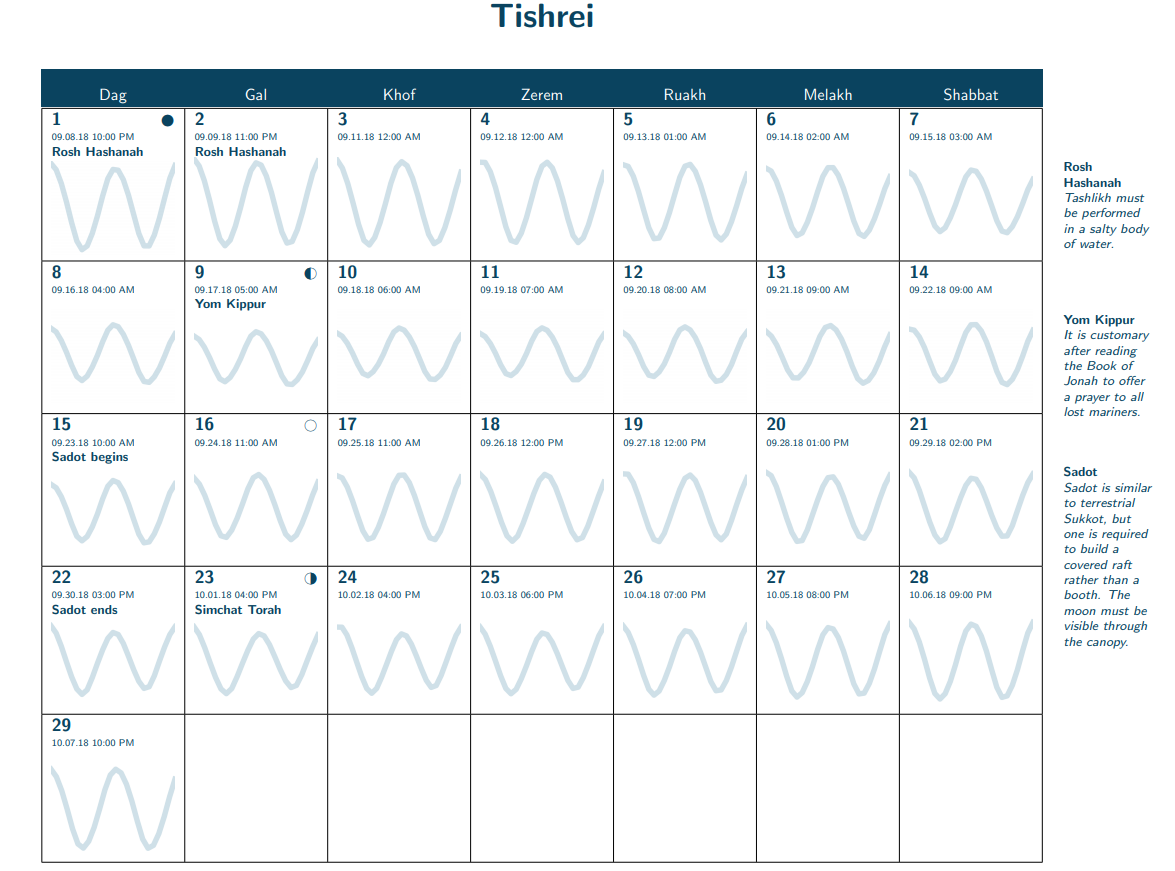
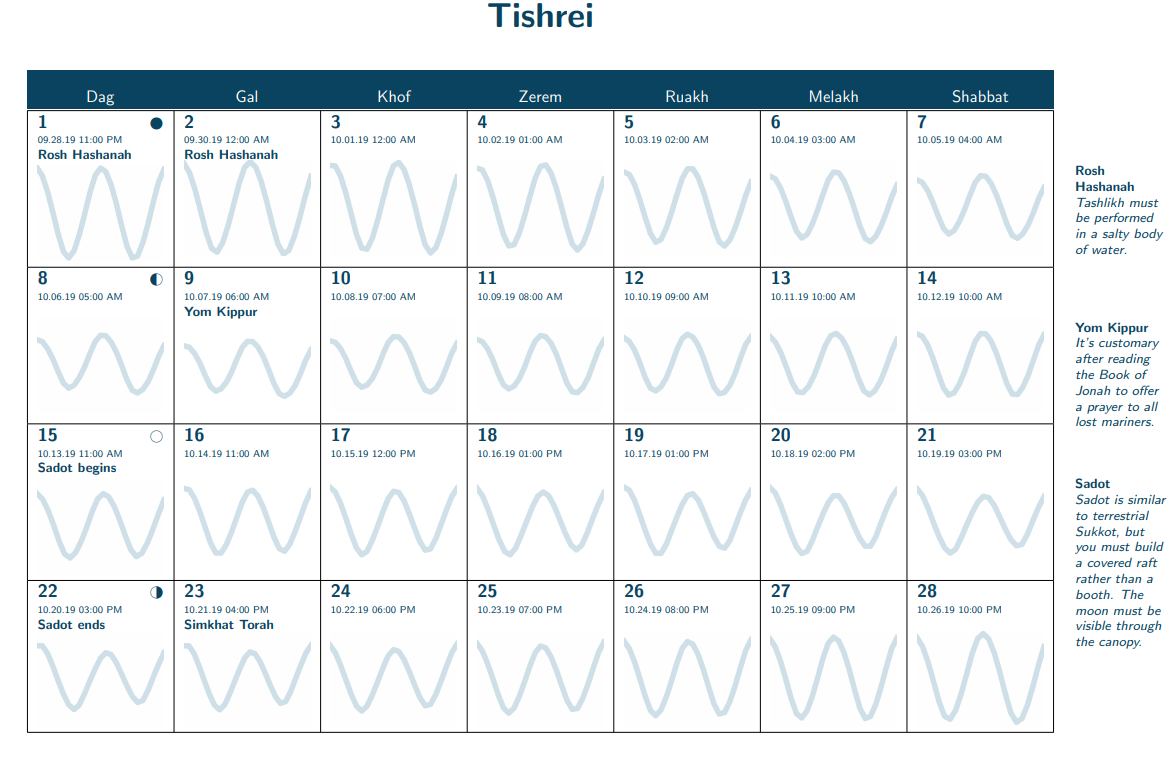
Updated README and Tishrei.png

Changed region(s): [[0.0, 0.0, 1.0, 1.0]]

diff --git a/README.md b/README.md
@@ -50,30 +50,35 @@ This will generate a `.tex` file, which you can then turn into a pdf with LaTeX.
 
 | Argument | Description | Default |
 | --- | --- | --- |
-| `-t <path>` | path/to/your/tidal/data.csv | `tide_data/boston.csv` |
+| `-t <path>` | path/to/your/tidal/data.csv | `tide_data/boston_5780.csv` |
 | `-p` | Create new tidal graph images. | `False` |
 | `-y` | The year. | `5780` |
 
 ### Getting tidal data
 
 1. Go to [this website](https://opendap.co-ops.nos.noaa.gov/axis/webservices/predictions/index.jsp) and gather all tidal data from one Rosh Hashanah to the next (add a few days on either end). Download the data as a text file. The station ID for Boston is: 8443970 
-2. Rung `raw_parser.py`, which will output a usable .csv file (you'll need to rename the file).
+2. Run `raw_parser.py`, which will output a usable .csv file (you'll need to rename the file).
 
 
-### Changelog
+# Changelog
 
 #### 5780
 
-- Re-plotted the year for 5780.
-- Rewrote the "Getting tidal data" section in this README.
-- Revised the "intro" section of the calendar.
-- Added `tide_data/boston_5780_raw.txt` (raw NOAA data).
-- Added `tide_data/boston_5780.csv` (processed NOAA data).
-- Renamed `tide_data/boston.csv` to `tide_data/boston_5779.csv`.
-- Added `raw_parser.py` to parse raw NOAA data.
-- Expanded some yom tov descriptions.
-- Made the calculation of the first hour of the year more flexible.
-- Fixed: Typos in the yom tov descriptions.
-- Fixed: Inconsistent orthography for ח (was a mix of "ch" and "kh"; now, it is always "kh").
-- Fixed: The tidal image generator sometimes generates too many images.
-- Fixed: If the last week of the month ends on Shabbat, an extra blank row is generated.
+- Revised the calendar for the year 5780.
+  - Re-plotted tidal data.
+  - Revised the "intro" section.
+  - Expanded some yom tov descriptions.
+  - Fixed: Some typos in the yom tov descriptions.
+  - Fixed: Inconsistent orthography for ח (was a mix of "ch" and "kh"; now, it is always "kh").
+- Update this README:
+  - Rewrote the "Getting tidal data" section.
+  - Updated image of Tishrei.
+- Improved tidal data parsing.
+  - Added `tide_data/boston_5780_raw.txt` (raw NOAA data).
+  - Added `tide_data/boston_5780.csv` (processed NOAA data).
+  - Renamed `tide_data/boston.csv` to `tide_data/boston_5779.csv`.
+  - Added `raw_parser.py` to parse raw NOAA data.
+- Improved `aquatic_calendar_creator.py`
+  - Made the calculation of the first hour of the year more flexible.
+  - Fixed: Sometimes too many tidal plot images are generated.
+  - Fixed: If the last week of the month ends on Shabbat, an extra blank row is generated.
